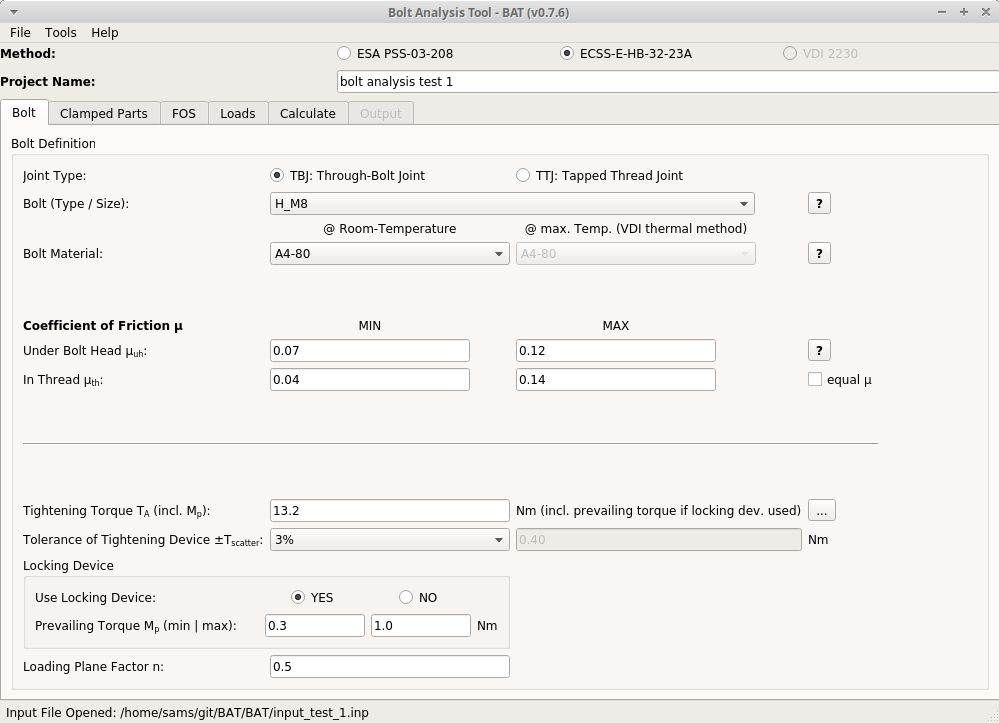
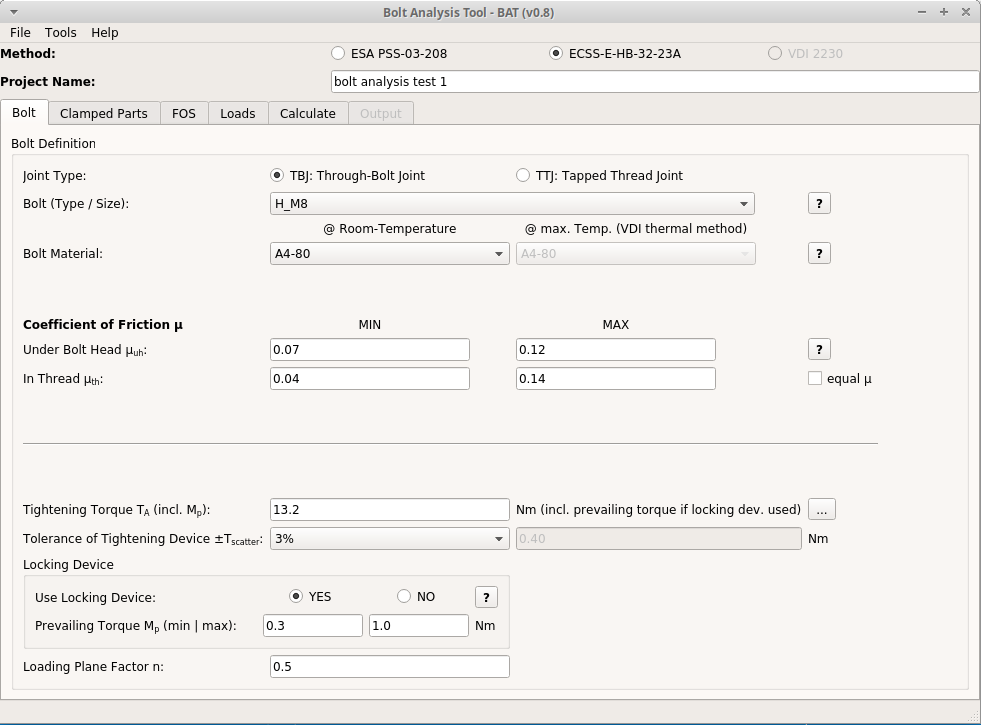
v0.8 release

diff --git a/BAT/bat_main.py b/BAT/bat_main.py
@@ -14,10 +14,10 @@ import src.ThreadPullOut as thread_pull_out
 import src.functions.exceptions as ex
 import src.bat_qt_gui as bat_qt_gui
 
-__version__ = "0.8-ALPHA"
+__version__ = "0.8"
 """
 Change Log:
-v0.8 - xx.xx.2021
+v0.8 - 04.09.2021
 - slippage and gapping columns can be excluded in output (GUI only)
 - GUI does not crash anymore if saved empty (error info in command-line)
 - info message if mu_min > mu_max in GUI (fixes #9)

diff --git a/README.md b/README.md
@@ -39,12 +39,13 @@ $ python bat_main.py --help
 ```shell
 $ python bat_main.py --gui
 ```
-![Example Screenshot BAT v0.7.6](https://github.com/misams/BAT/blob/master/BAT/doc/bat_example.png)
+![Example Screenshot BAT v0.8](https://github.com/misams/BAT/blob/master/BAT/doc/bat_example.png)
 
 ## Changelog
 
 Release | Date | Info
 --- | --- | ---
+v0.8 | 04.09.2021 |- slippage and gapping columns can be excluded in output (GUI only)<br>- GUI does not crash anymore if saved empty (error info in command-line)<br>- info message if mu_min > mu_max in GUI<br>- prevailing torque Helicoil max-torque table as info added<br>- double entries check for "Paste from Excel" in bolt loads<br>- checkbox added: "overwrite" for "Paste from Excel" --> without overwrite: add to table
 v0.7.8 | 10.07.2021 |- BUG in global slippage margin corrected (fixes #8)<br>- shim-filter included (fixes #7)<br>- UNC/UNF hex socket bolts and washer added to database
 v0.7.7 | 27.05.2021 |- bolt-load input-file format changed (separator ',')
 v0.7.6 | 23.05.2021 |- help windows added (CoF, torque, cicular flange)<br>- equal mu function added<br>- quick save before analysis (save and run)
